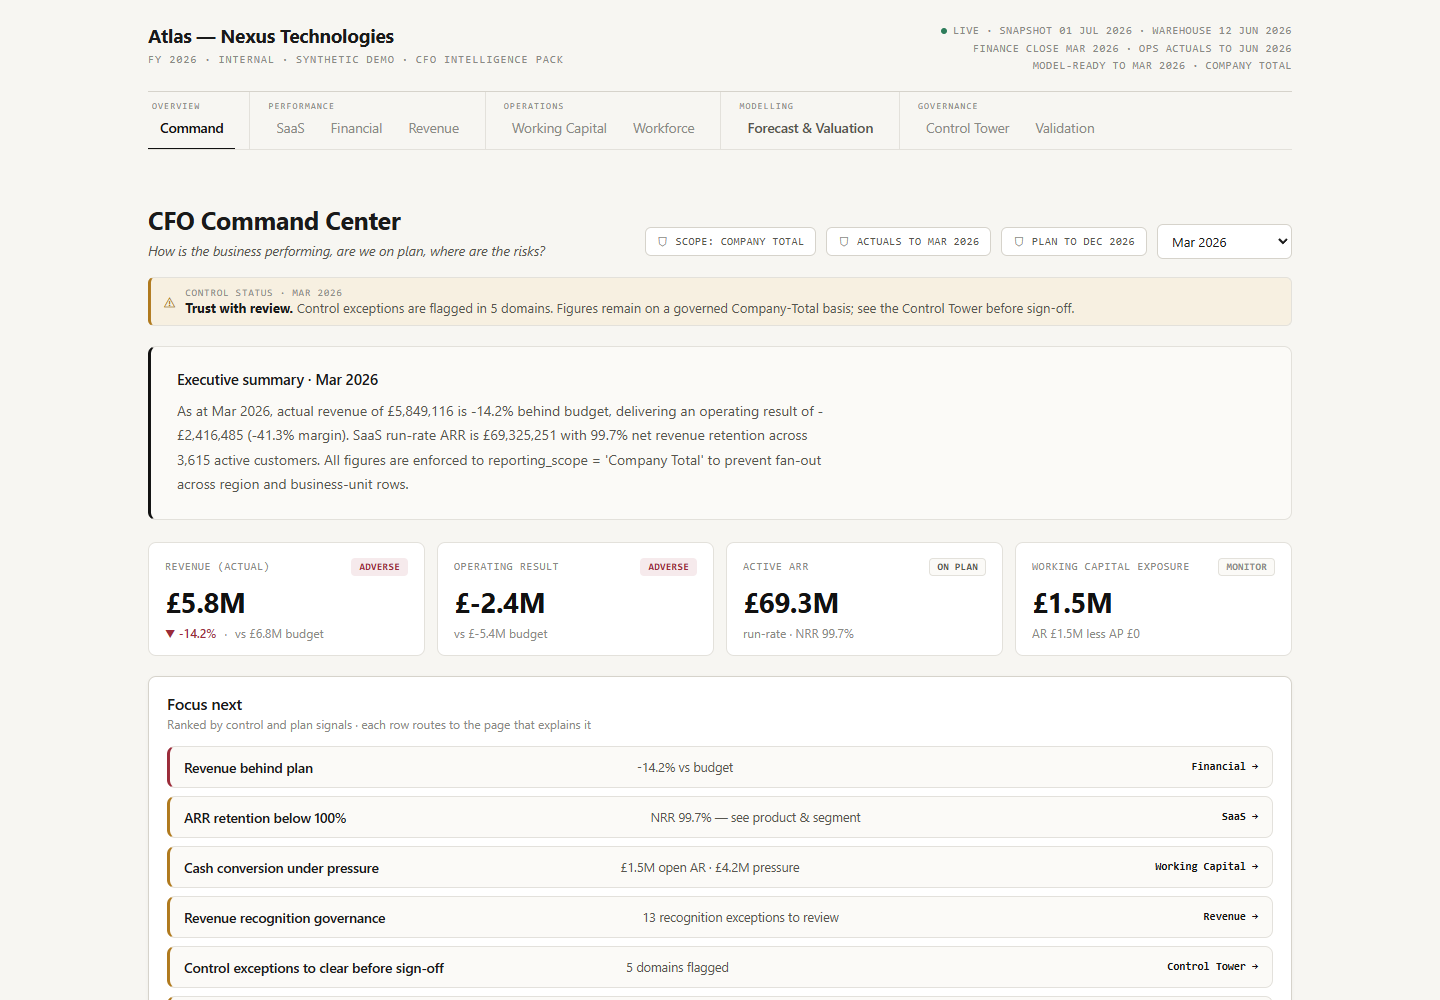
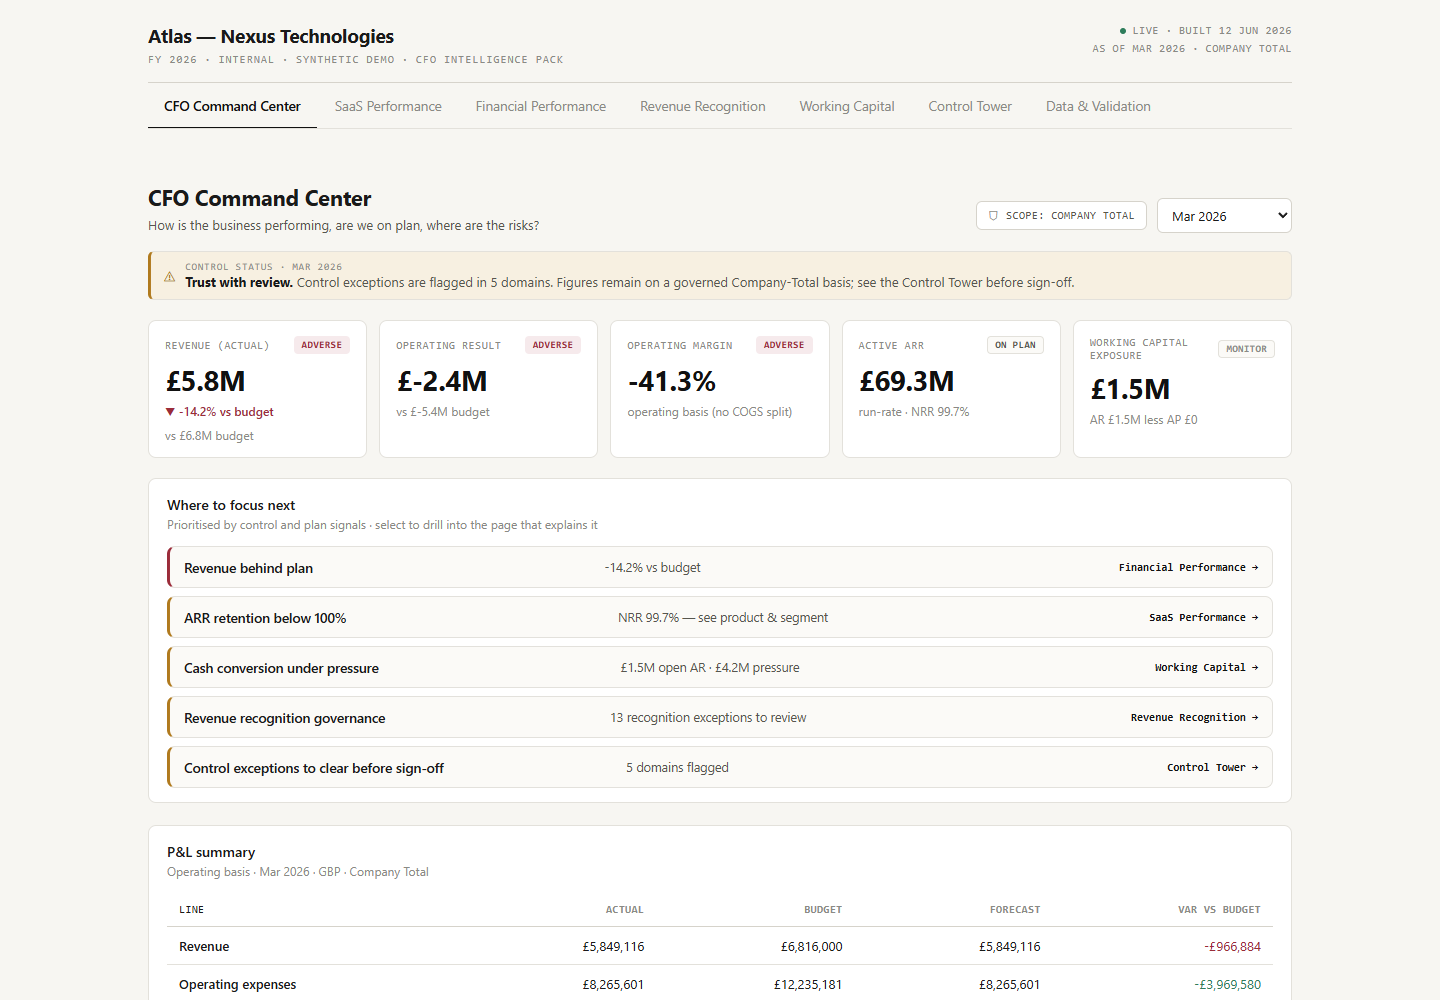
Revert "feat(dashboard): resolve actuals-contract ambiguity"

diff --git a/dashboard/src/pages/ForecastValuation.tsx b/dashboard/src/pages/ForecastValuation.tsx
@@ -141,16 +141,10 @@ export function ForecastValuation() {
 
       <div className="kpi-grid">
         <KpiCard
-          label="Operating actuals"
-          value={formatCount(s.operating_actual_months)}
-          sub={`months to ${s.latest_operating_month_label ?? '-'} · workbook v0.21 import basis`}
-          status={{ tone: 'favourable', label: 'History' }}
-        />
-        <KpiCard
-          label="Import-ready (strict)"
+          label="Excel actual periods"
           value={formatCount(s.excel_actual_months)}
-          sub={`GL-closed months to ${s.latest_excel_month_label ?? '-'} · no blocking controls`}
-          status={{ tone: s.excel_actual_months > 0 ? 'favourable' : 'adverse', label: 'Contract' }}
+          sub={`${s.latest_excel_month_label ?? 'No month'} latest import-ready period`}
+          status={{ tone: s.excel_actual_months > 0 ? 'favourable' : 'adverse', label: 'Model feed' }}
         />
         <KpiCard
           label="Latest model revenue"
@@ -240,13 +234,7 @@ export function ForecastValuation() {
             <li><span>NRR</span><strong>{formatPercent(latestExcel?.nrr)}</strong></li>
           </ul>
           <p className="pnl-note">
-            <strong>Two actuals bases, by design.</strong> Workbook v0.21 imported the
-            {' '}{formatCount(s.operating_actual_months)}-month operating-actuals history
-            (recognition, O2C and payroll). The strict import contract
-            (<code>use_in_excel_actuals_flag</code>) additionally requires GL-closed financial
-            actuals and no model-blocking controls, which currently yields
-            {' '}{formatCount(s.excel_actual_months)} months. The next workbook version
-            re-imports under the strict flag.
+            Excel should filter the feed to <code>use_in_excel_actuals_flag = true</code>.
           </p>
         </div>
       </div>
@@ -362,13 +350,12 @@ export function ForecastValuation() {
           <ul className="kv">
             <li><span>Workbook</span><strong>{MODEL_WORKBOOK.name}</strong></li>
             <li><span>Scenarios</span><strong>{MODEL_WORKBOOK.scenarios}</strong></li>
-            <li><span>Operating actuals through</span><strong>{s.latest_operating_month_label ?? '-'}</strong></li>
-            <li><span>Strict import-ready through</span><strong>{s.latest_excel_month_label ?? '-'}</strong></li>
+            <li><span>Actuals through</span><strong>{s.latest_excel_month_label ?? '-'}</strong></li>
           </ul>
           <div className="handoff-steps">
             <div className="handoff-step tone-favourable">
               <span className="handoff-name">Actuals feed</span>
-              <span className="handoff-state">{formatCount(s.operating_actual_months)} operating months · {formatCount(s.excel_actual_months)} strict import-ready</span>
+              <span className="handoff-state">{formatCount(s.excel_actual_months)} import-ready months</span>
             </div>
             <div className={`handoff-step ${bs.is_balanced ? 'tone-favourable' : 'tone-adverse'}`}>
               <span className="handoff-name">Opening balance sheet</span>
@@ -386,12 +373,6 @@ export function ForecastValuation() {
           <a className="model-download" href={MODEL_WORKBOOK.file} download>
             Download Excel model ({MODEL_WORKBOOK.version})
           </a>
-          <p className="pnl-note">
-            The downloadable workbook is a synthetic distressed-case model used to demonstrate
-            governed model integration. Valuation outputs are illustrative work-in-progress —
-            path-to-profitability drivers are not yet modelled — and are intentionally not an
-            investment recommendation.
-          </p>
         </div>
       </div>
 

diff --git a/dashboard/src/duckdb/queries.ts b/dashboard/src/duckdb/queries.ts
@@ -235,8 +235,6 @@ export async function getModelReadinessSummary(): Promise<ModelReadinessSummary>
       sum(case when feed.model_period_status = 'Actual' then 1 else 0 end)::integer as actual_months,
       sum(case when feed.model_period_status = 'Scheduled' then 1 else 0 end)::integer as scheduled_months,
       sum(case when feed.use_in_excel_actuals_flag then 1 else 0 end)::integer as excel_actual_months,
-      sum(case when feed.model_period_status = 'Actual' and feed.has_revenue_actuals and feed.has_o2c_actuals then 1 else 0 end)::integer as operating_actual_months,
-      strftime(max(case when feed.model_period_status = 'Actual' and feed.has_revenue_actuals and feed.has_o2c_actuals then feed.reporting_month_date end), '%b %Y') as latest_operating_month_label,
       sum(case when feed.model_readiness_status = 'Ready' then 1 else 0 end)::integer as ready_months,
       sum(case when feed.model_readiness_status = 'Usable with review' then 1 else 0 end)::integer as review_months,
       sum(case when feed.model_readiness_status = 'Accepted limitation' then 1 else 0 end)::integer as accepted_limitation_months,

diff --git a/dashboard/src/pages/CfoCommandCenter.tsx b/dashboard/src/pages/CfoCommandCenter.tsx
@@ -402,7 +402,7 @@ export function CfoCommandCenter({ onNavigate }: { onNavigate: (page: PageId) =>
           primaryLabel="Actuals feed for the CFO model"
           secondary={
             r
-              ? `${formatCount(r.operating_actual_months)} operating months · ${formatCount(r.excel_actual_months)} strict import-ready to ${r.latest_excel_month_label ?? '-'}`
+              ? `${formatCount(r.excel_actual_months)} import-ready months to ${r.latest_excel_month_label ?? '-'} · ${formatCount(r.review_months)} usable with review`
               : 'Loading model-serving feed'
           }
           source="mart_model_actuals_feed"

diff --git a/dashboard/src/types.ts b/dashboard/src/types.ts
@@ -394,8 +394,6 @@ export interface ModelReadinessSummary {
   actual_months: number;
   scheduled_months: number;
   excel_actual_months: number;
-  operating_actual_months: number;
-  latest_operating_month_label: string | null;
   ready_months: number;
   review_months: number;
   accepted_limitation_months: number;

diff --git a/dashboard/index.html b/dashboard/index.html
@@ -3,7 +3,6 @@
   <head>
     <meta charset="UTF-8" />
     <meta name="viewport" content="width=device-width, initial-scale=1.0" />
-    <link rel="icon" type="image/svg+xml" href="./favicon.svg" />
     <title>Project Atlas — Nexus Technologies CFO Intelligence</title>
     <meta
       name="description"

diff --git a/README.md b/README.md
@@ -17,22 +17,10 @@ planned against the same surfaces.
 
 The project uses synthetic data only. It is designed for portfolio and demonstration purposes, not for production financial reporting.
 
-**Nexus is deliberately imperfect.** The synthetic company is generated as a SaaS business
-under operating pressure — revenue behind plan, ARR leakage, lagging cash conversion,
-control defects, and a loss-making P&L — *on purpose*, so the governance layer has real
-problems to catch, classify, and disclose. If a number looks uncomfortable, that is the
-demo working, not the generator failing.
-
 **Start here:** [Live dashboard](https://lewisa55.github.io/finance-intelligence-platform/) ·
 [Architecture](docs/02_architecture.md) ·
 [Gold semantic layer](docs/06_gold_semantic_layer.md) ·
 [Validation summary](docs/final_validation_summary.md)
-
-### Reviewing in 90 seconds
-
-1. Open the [CFO Command Center](https://lewisa55.github.io/finance-intelligence-platform/#/command-center) — read the executive summary, then the ranked **Focus next** list.
-2. Follow the top cue (revenue behind plan) into [Financial Performance](https://lewisa55.github.io/finance-intelligence-platform/#/financial) — the variance waterfall shows which departments drove it, and the model-feed bridge shows how the month lands in the modelling contract.
-3. Finish on [Forecast & Valuation](https://lewisa55.github.io/finance-intelligence-platform/#/model) — the platform's differentiator: a governed actuals feed, per-domain coverage, a readiness policy that blocks unreliable periods, and the Excel model the warehouse serves.
 
 ## CFO Intelligence Portal (Live)
 
@@ -90,10 +78,6 @@ The live dashboard is the canonical interactive walkthrough.
 | Working capital and collections | Governed control evidence |
 | --- | --- |
 | [![Working Capital](docs/img/working-capital.png)](https://lewisa55.github.io/finance-intelligence-platform/#/working-capital) | [![Control Tower](docs/img/control-tower.png)](https://lewisa55.github.io/finance-intelligence-platform/#/control-tower) |
-
-The modelling anchor — the governed actuals feed, readiness policy and Excel workspace:
-
-[![Forecast & Valuation](docs/img/forecast-valuation.png)](https://lewisa55.github.io/finance-intelligence-platform/#/model)
 
 ## Why It Was Built
 

diff --git a/dashboard/README.md b/dashboard/README.md
@@ -13,26 +13,14 @@ application backend and no runtime CDN dependency.
 
 ## Pages
 
-Grouped as Overview / Performance / Operations / Modelling / Governance:
-
-- **CFO Command Center**: executive summary, KPI spine, ranked "Focus next" routing,
-  P&L summary, plan variance, domain health tiles including model readiness.
-- **SaaS Performance**: the ARR growth-engine bridge, full-history run-rate,
-  product/segment mix and trend, retention by segment.
-- **Financial Performance**: actual vs budget vs forecast, operating-result variance
-  waterfall by department, and the bridge into the model-serving feed (FC_BASE_CASE).
-- **Revenue Quality**: recognition history and forward schedule, deferred backlog
-  burn-down and rollforward, governance exceptions by readiness treatment.
-- **Working Capital**: cash conversion history, AR collections and concentration,
-  AP ageing snapshot and trend, working-capital model assumption hooks.
-- **Workforce Capacity & Hiring Pressure**: payroll/FTE actuals vs plan, forward
-  hiring pressure with salary exposure, department controls by readiness treatment.
-- **Forecast & Valuation**: the modelling anchor — governed actuals feed and coverage,
-  historical model drivers, opening balance sheet, readiness policy, Excel workspace.
-- **Control Tower**: readiness cockpit (blocking / review / accepted / monitor),
-  exception trends by domain, and locked dbt validation evidence.
-- **Data & Validation**: per-table row counts and coverage windows, manifest status,
-  and the model-serving readiness summary.
+- **CFO Command Center**: executive KPIs, P&L summary, plan variance, control status,
+  and prioritised drill-through cues.
+- **Financial Performance**: actual, budget and forecast analysis by department and account.
+- **SaaS Performance**: ARR movement, product/segment mix, retention and regional exposure.
+- **Revenue Recognition**: billing, earned revenue, deferred revenue and accounting controls.
+- **Working Capital**: AR collections, customer exposure, AP ageing and vendor exposure.
+- **Control Tower**: exception-period observations and locked dbt validation evidence.
+- **Data & Validation**: loaded views, reporting scopes and snapshot provenance.
 
 ## Stack
 
